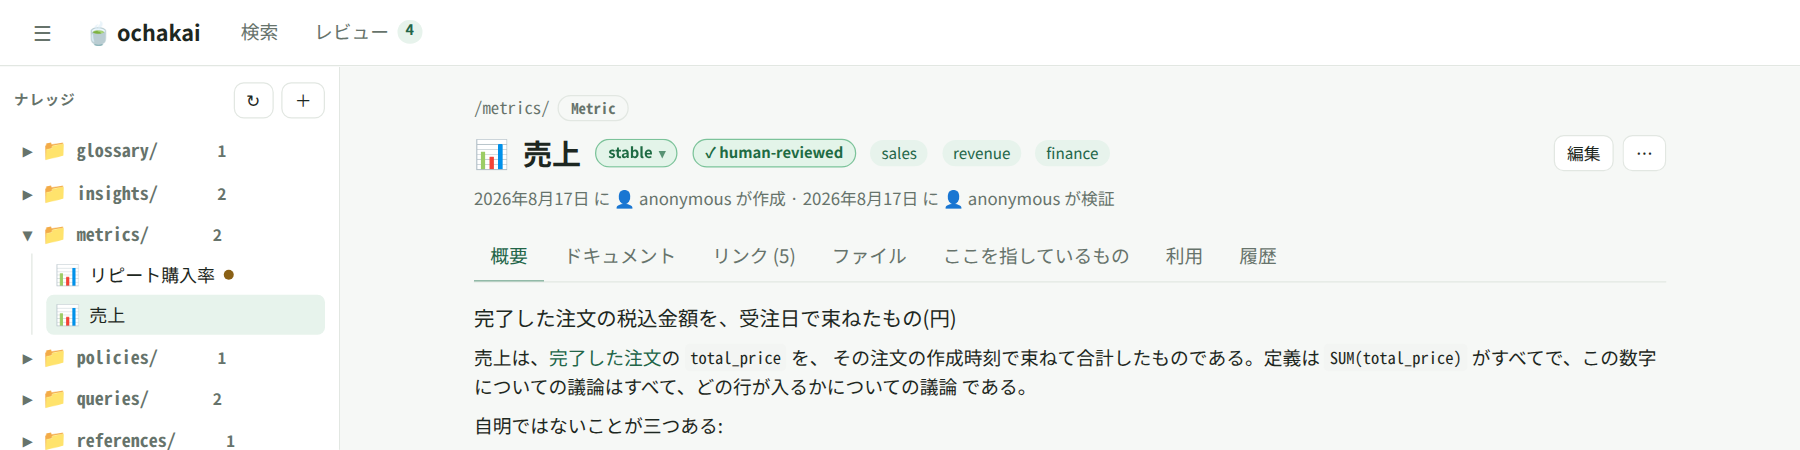
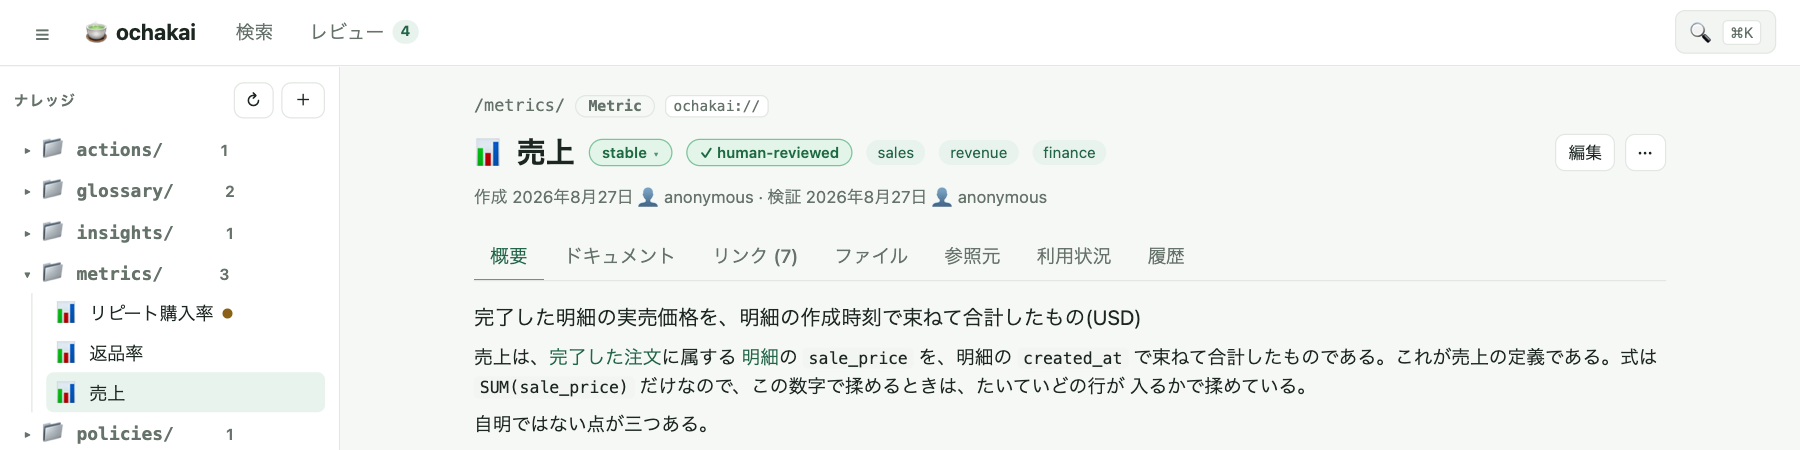
Re-shoot the web UI screenshots against 0.27.6
The four captures were taken before the copy was pared down (#779), the
sidebar became resizable (#778) and directory nodes became draggable
(#784), so they showed a UI that no longer ships.

Re-tune the heights while re-shooting. They are crops chosen to end just
under the last card, and less copy moved every one of them: review ran
90px past its last card, and tree cut a card in half. Measured rather
than eyeballed — review 870 → 790, wrong 420 → 395, tree 540 → 700,
entry unchanged. All four together are 630 KB, still inside the budget
the table is sized by.

Say what actually removes the dev banner and the アクセス tab. The advice
to crop them or shoot an authenticated deployment was tried and neither
half works: the banner sits inside .content below the header, so a crop
takes the navigation with it, and no other posture can be shot from here
because the default one wants an identity `ochakai ui` cannot supply
while read-only and public refuse the writes the review queue is a
picture of. Removing .dev-note, .sandbox-note and #nav-access from the
page before capturing is what is left.

diff --git a/CONTRIBUTING.md b/CONTRIBUTING.md
@@ -331,10 +331,17 @@ go run ./cmd/ochakai import examples/demo
 `dev` is the only posture that is writable without an identity in front,
 and a dev deployment now says so on every page, so a capture taken this
 way carries the banner — and an アクセス tab, because dev's anonymous
-caller reads as an administrator — and the committed ones do not. Crop
-them out, or shoot against a deployment whose callers are authenticated:
-what the pictures are for is the product, and both of those are about the
-machine you happen to be running it on.
+caller reads as an administrator — and the committed ones do not: what
+the pictures are for is the product, and both of those are about the
+machine you happen to be running it on. Remove them from the page before
+capturing — `.dev-note`, `.sandbox-note` and `#nav-access`. Neither of
+the two obvious alternatives works. A crop cannot reach the banner,
+which sits inside `.content` below the header rather than being a strip
+across the top, so taking it off takes the navigation with it; and no
+other posture can be shot from here, because the default one asks for an
+identity `ochakai ui` has none to give (`/api/v1` answers 401) while
+`read-only` and `public` refuse the writes the review queue is a picture
+of.
 
 The bundle already carries the two drafts the review queue needs and a
 draft whose `stale_after` has passed. The re-verification feed is the one
@@ -367,10 +374,10 @@ a UI change moves them.
 
 | Route | File | Height |
 |---|---|---|
-| `#/review` | `webui-review.png` | 870 |
+| `#/review` | `webui-review.png` | 790 |
 | `#/k/metrics/revenue` | `webui-entry.png` | 360 |
-| `#/search/reported-wrong` | `webui-wrong.png` | 420 |
-| `#/` | `webui-tree.png` | 540 |
+| `#/search/reported-wrong` | `webui-wrong.png` | 395 |
+| `#/` | `webui-tree.png` | 700 |
 
 Three things have to be forced, or the pictures come out wrong in ways
 that are easy to miss:
